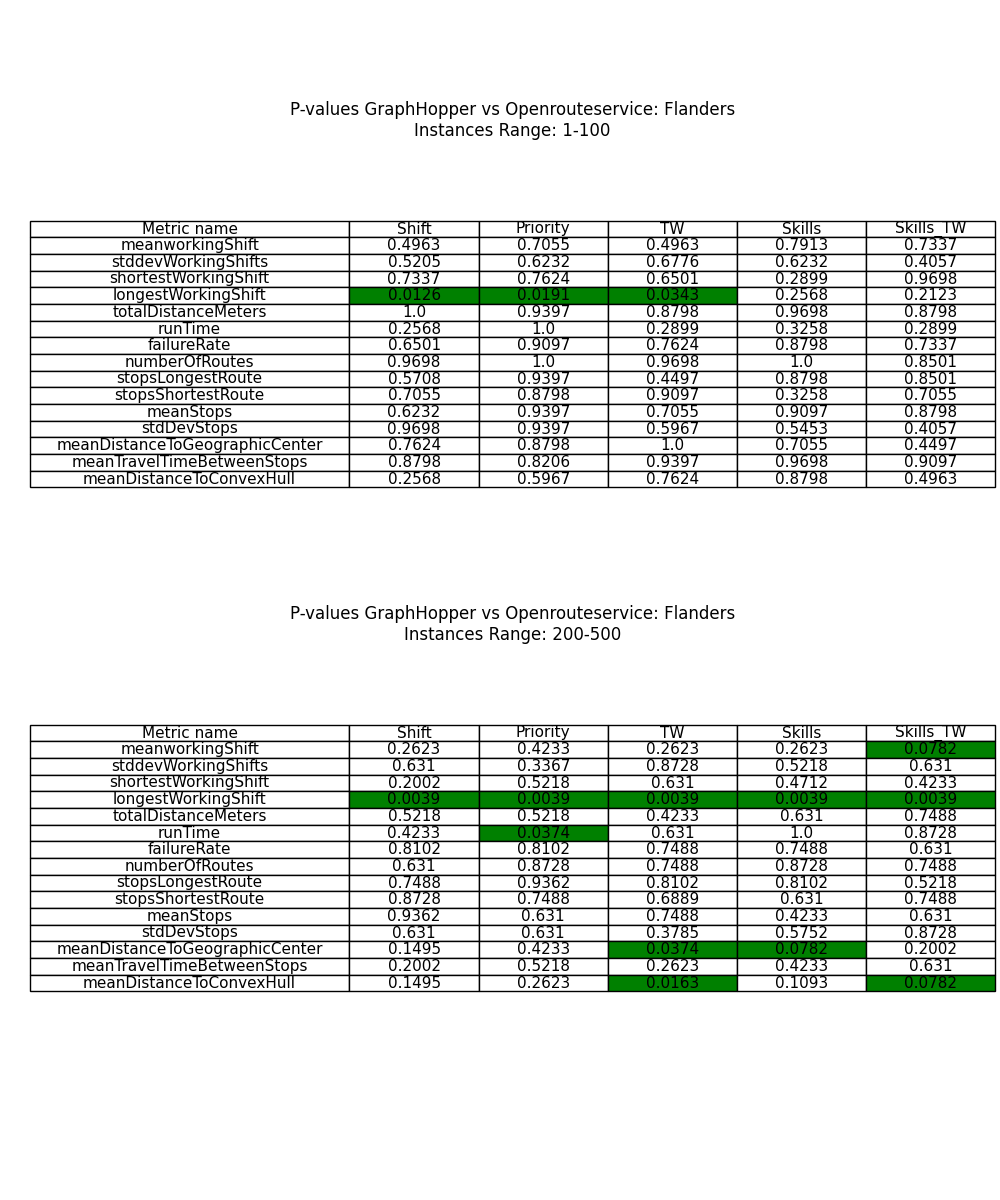
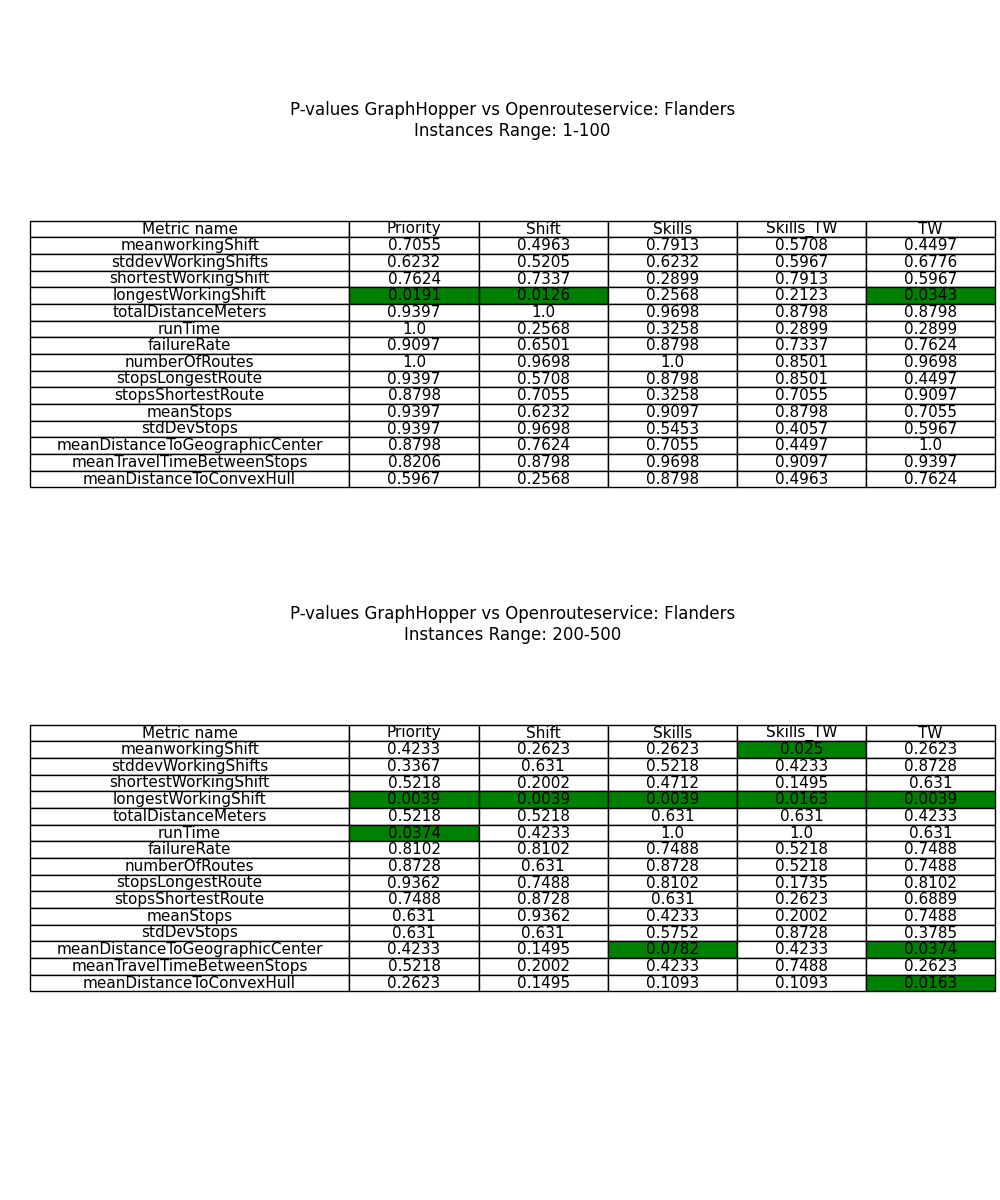
update after bugfix

diff --git a/main.py b/main.py
@@ -46,7 +46,7 @@ def make_pvalues_table(necessary_keys, vrpvariants, instance_range):
             file_paths_ors = []
             add_files_to_set(
                 "C:\\Users\\lucas\\Documents\\masterproef2023_2024\\metavrp-toolkit\\cli\\etc\\demoproblems\\analysisResultsJSON\\" + vrpvariant + "\\",
-                file_paths_gh, "SLV", instance_range)
+                file_paths_gh, "GH", instance_range)
             add_files_to_set(
                 "C:\\Users\\lucas\\Documents\\masterproef2023_2024\\metavrp-toolkit\\cli\\etc\\demoproblems\\analysisResultsJSON\\" + vrpvariant + "\\",
                 file_paths_ors, "ORS", instance_range)
@@ -81,12 +81,12 @@ def create_pvalues_table(pvalues_small, pvalues_large, vrpvariants, names, insta
         table = ax.table(cellText=table_data, cellLoc="center", colLabels=col_labels, loc='center', cellColours=colour_data)
         ax.axis('off')
         instance_range_str = f"Instances Range: {instance_range[0]}-{instance_range[1]}"
-        ax.set_title(f"P-values Openrouteservice vs Solvice: Flanders\n{instance_range_str}")
+        ax.set_title(f"P-values GraphHopper vs Openrouteservice: Flanders\n{instance_range_str}")
         table.auto_set_column_width([0])
         table.auto_set_font_size(False)
         table.set_fontsize(11)
 
-    figname = "ORSvsSLV/ORSvsSLV_shipments_Vlaanderen"
+    figname = "GHvsORS/GHvsORS_shipments_Vlaanderen"
     plt.savefig(figname)
     plt.show()
 
@@ -117,7 +117,8 @@ list_keys = [['WorkingShiftAnalysisResult', 'meanworkingShift'],
              ['CargoAnalysisResult', 'meanLoad'],
              ['CargoAnalysisResult', 'meanLoadVolume']]
 
-variants = ["Capacity", "Capacity_TW", "Open", "PDP", "PDP_TW", "MultiDepot", "SameAddresses"]
+#variants = ["Priority", "Shift", "Skills", "Skills_TW", "TW"]
+variants = ["Capacity", "Capacity_TW", "MultiDepot", "Open", "PDP", "PDP_TW", "Sameaddresses"]
 
 pvaluessmall, names = make_pvalues_table(list_keys, variants, small_instance_range)
 pvalueslarge, names = make_pvalues_table(list_keys, variants, large_instance_range)
